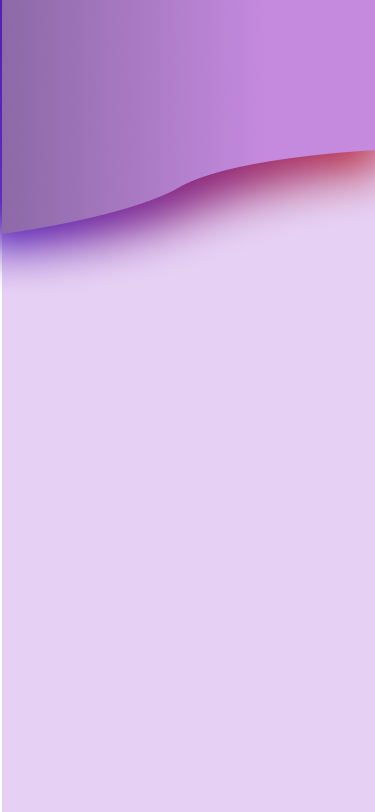
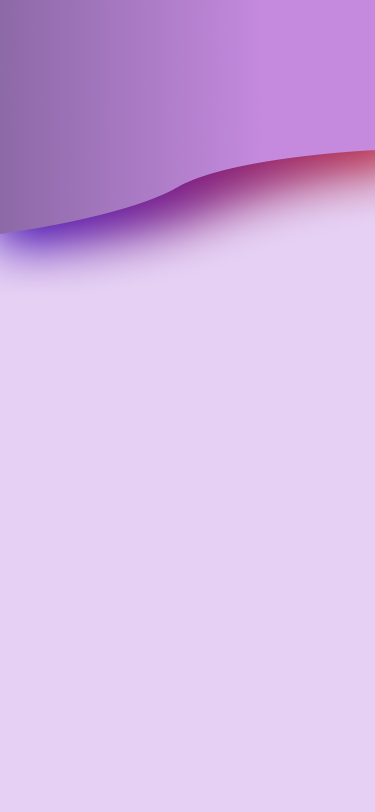
Pagina home
Ready, solo falta redireccionar al chat de ayuda

Changed region(s): [[0.0, 0.3387, 0.0293, 1.0], [0.0, 0.0, 0.0293, 0.3079], [0.968, 0.1847, 1.0, 0.2155]]

diff --git a/src/Componentes/Componentehome.jsx b/src/Componentes/Componentehome.jsx
@@ -4,11 +4,82 @@ import { Componentecat } from "./Componentecat"
 import { Componentemenu } from "./Componentemenu"
 import { Componenteayuda } from "./Componenteayuda"
 import { Componentebusqueda } from "./Componentebusqueda"
+import user from "../assets/images/usuario.png"
+import menuTabs from "../assets/images/Menú.png"
+import ubic from "../assets/images/ubicacion.png"
+import lupa from "../assets/images/lupa.png"
+import rest from "../assets/images/Home/Restaurantes.png"
+import far from "../assets/images/Home/Farmacias.png"
+import fav from "../assets/images/Home/Favoritos.png"
+import sup from "../assets/images/Home/supermercados.png" 
+import Helper from "../assets/images/Login/helper.png"
+import { useNavigate } from "react-router-dom"
 
 export const Componenthome = () =>{
+    const navigate = useNavigate();
+
+
+    const restaurantes =()=>{
+        navigate("/Restaurantes")
+    }
+    
     return(
         <>
-            <h1>Goku</h1>
+        <div className="header-home mt-5  ">
+            <div className="row">
+                <div className="col-2 justify-content-center">
+                    <img src={user} alt="" className="ms-1 w-90 "/>
+                </div>
+                <div className="col-6">
+                    <div className="d-inline-flex p-2 pt-3  ">
+                        <h1 className='fw-regular' style={{color: '#FFFFFF',fontSize: '17px', marginLeft:'10px' }}>¡Bienvenida!</h1>
+                        
+                        <h1 className='fw-bold' style={{color: '#FFFFFF',fontSize: '17px', marginLeft:'5px' }}>Isabella</h1>
+                    </div>
+                    <div className="d-inline-flex p-2 mt-n1 ">
+                        <img src={ubic} alt="" className="ms-1" style={{width:'12%', height:'12%',marginTop:'1px' }}/>                
+                        <h1 className='fw-regular' style={{color: '#FFFFFF',fontSize: '12px', marginLeft:'2px' }}>Carrera 44 #6b-95</h1>
+                    </div>
+                </div>
+                <div className="col">
+                    <img src={menuTabs} alt="" className="ms-5 w-1 pt-3"/>
+                </div>
+            </div>
+            <div class="input-group input-group-sm mb-3  ">
+                <span class="input-group-text" id="inputGroup-sizing-sm"><img src={lupa} alt="" className="w-75" /></span>
+                <input type="text" class="form-control" aria-label="Sizing example input" aria-describedby="inputGroup-sizing-sm"/>
+            </div>
+        </div>
+        <div >
+            <div className="row">
+                <div className="col-5">
+                    <img src={rest} alt="" onClick={restaurantes}/>
+                </div>
+                <div className="col-5">
+                    <img src={sup} alt="" onClick={restaurantes}/>
+                </div>
+            </div>
+            <div className="row">
+                <div className="col-5">
+                    <img src={far} alt="" onClick={restaurantes}/>
+                </div>
+                <div className="col-5">
+                    <img src={fav} alt="" onClick={restaurantes}/>
+                </div>
+            </div>
+        </div>
+        <div className="row mt-5">
+                <div className="col-2">
+                    <img src={Helper} alt="" />
+                </div>
+                <div className="col-10">
+                    <div className="help text-center">
+                        <span>
+                            ¿Necesitas ayuda? Contáctate con nosotros.
+                        </span>
+                    </div>
+                </div>
+            </div>
         </>
     )
 }

diff --git a/src/Componentes/Componentegps.jsx b/src/Componentes/Componentegps.jsx
@@ -24,11 +24,11 @@ export const Componentgps=({onComponentgps})=>{
         
         <form>
             <div className="mb-3">
-                <label for="exampleInputEmail1" style={{color: '#8A68A5'}} className="form-text ms-5 mt-5 ">Direccion</label>
+                <label for="exampleInputEmail1" style={{color: '#8A68A5'}} className="form-text ms-5  ">Direccion</label>
                 <input type="email" className="form-control w-75 mx-auto mb-3" id="exampleInputEmail1" aria-describedby="emailHelp"/>
             </div>
 
-            <img src={gps} alt="" className="ms-7 w-50 mb-3"/>
+            <img src={gps} alt="" className="ms-5 w-90 mb-3"/>
             
             <div className="d-grid gap-2 d-md-block mb-5">
                 <button type="submit" style={{color: '#8A68A5'}} onClick={registrardireccion} className="btn btn-primary m-auto ">Agregar Direccion</button>

diff --git a/src/App.jsx b/src/App.jsx
@@ -6,6 +6,7 @@ import { AuthContextProvider } from "./Firebase/GoogleAuth";
 import { AuthContextProvider2}  from "./Firebase/CorreoAuth";
 import { Logincorreo } from "./Componentes/logincorreo";
 import { Registrocorreo } from "./Componentes/Registrocorreo";
+import { Restaurantes } from "./Componentes/restaurantes";
 import './assets/styles/variables.scss'
 import './assets/styles/global.scss'
 
@@ -23,6 +24,7 @@ import { Componentgps } from "./Componentes/Componentegps";
                         <Route path="/gps" element={<Componentgps/>}/>
                         <Route path="/Login" element={<Logincorreo/>}/>
                         <Route path="/Registro" element={<Registrocorreo/>}/>
+                        <Route path="/Restaurantes" element={<Restaurantes/>}/>
                     </Routes>
                 </AuthContextProvider2> 
             </AuthContextProvider>

diff --git a/src/assets/styles/global.scss b/src/assets/styles/global.scss
@@ -3,7 +3,7 @@
 @import url('https://fonts.googleapis.com/css2?family=Inter:wght@100;200;300;400;500;600;700;800;900&family=Raleway:wght@300;400;700&display=swap');
 
 body {
-    background: url('../images/Fondo.png');
+    background: url('../images/Fondo2.png');
     background-repeat: no-repeat;
     background-size: cover;
     background-position: 50% 50%;
@@ -52,3 +52,6 @@ body {
 .ms-7 {
     margin-left: ($spacer * 5) !important;
 }
+.mt-n1 {
+    margin-top: -5rem !important;
+  }

diff --git a/src/pages/login/Login.jsx b/src/pages/login/Login.jsx
@@ -32,7 +32,7 @@ export const Login=()=>{
     return(
         <>
         <div className="fondo d-flex flex-column justify-content-center">
-            <div className="header mt-6 mx-auto">
+            <div className="header mt-4 mx-auto">
                 <div className="Sombra">
                     <img src={Logo} alt="" />
                 </div>

diff --git a/src/Componentes/restaurantes.jsx b/src/Componentes/restaurantes.jsx
@@ -3,7 +3,8 @@ export const Restaurantes =({Restaurantes}) =>{
     
     return(
         <>
-        <Establecimiento onEstablecimiento={Establecimiento}/>
+        <h1>Goku le gana</h1>
+        
         </>
     )
 }

diff --git a/src/pages/login/Login.scss b/src/pages/login/Login.scss
@@ -1,5 +1,8 @@
 .header {
-    margin-bottom: 200px;
+    margin-bottom: 150px;
+}
+.header-home {
+    margin-bottom: 90px;
 }
 
 .google-btn {
